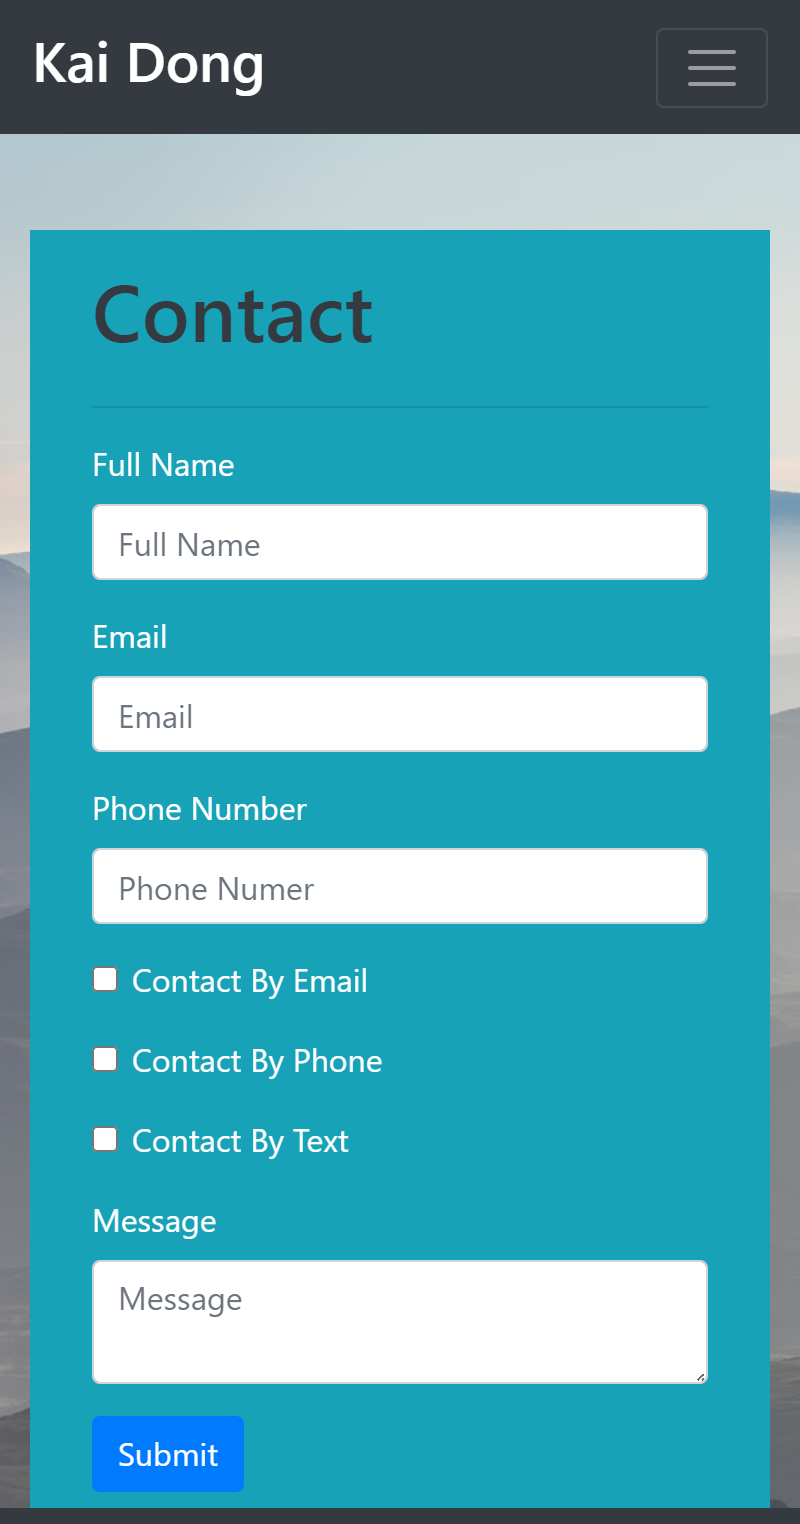
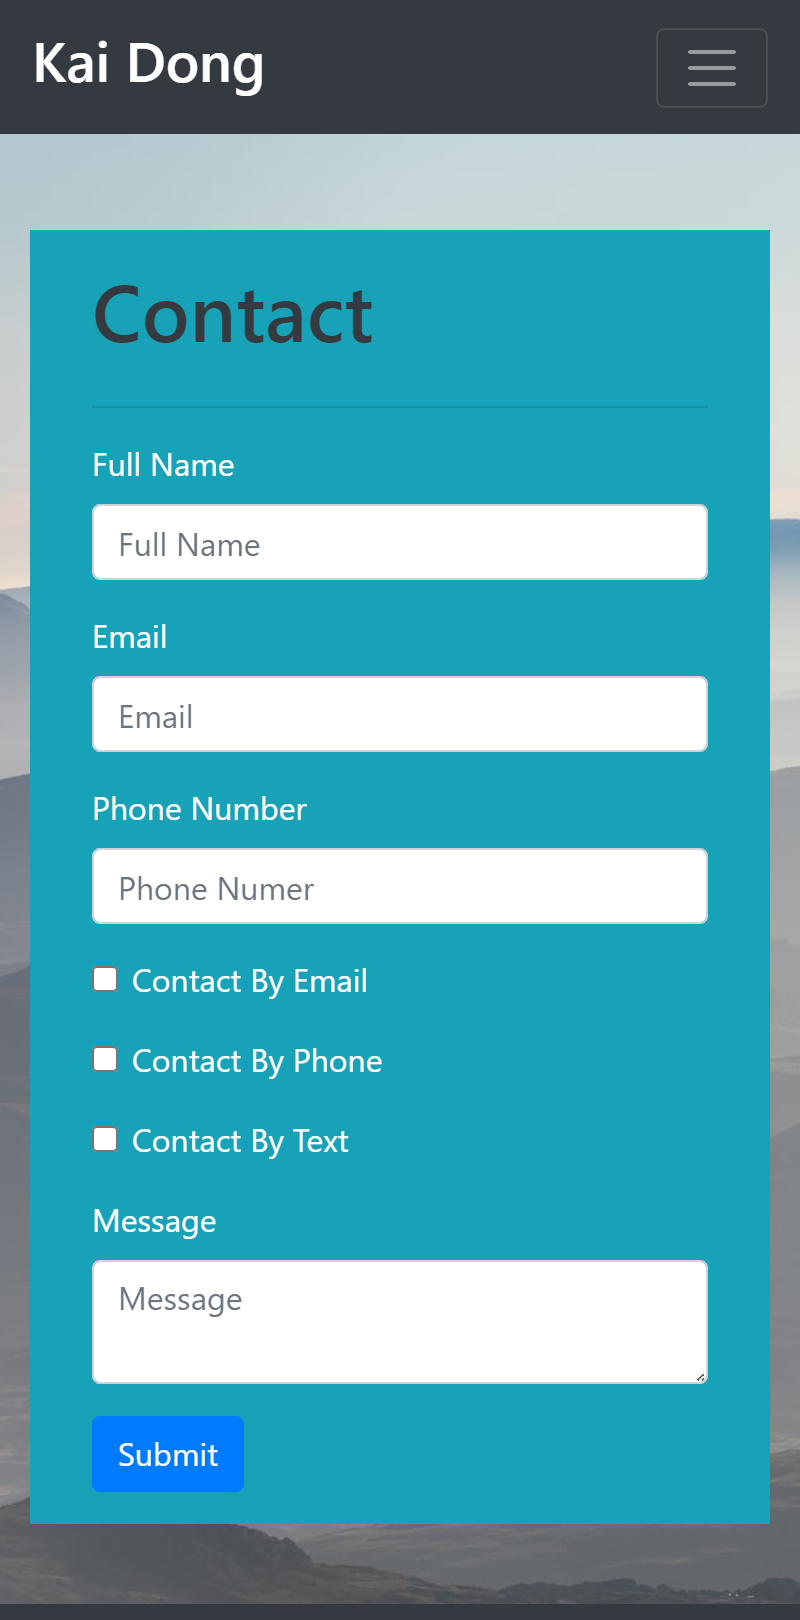
Added margin bottom to index, updated screenshots

diff --git a/index.html b/index.html
@@ -43,7 +43,7 @@
             <div class="col-md-8 col-lg-8">
 
                 <!-- Sub container and column defined for fitment and style -->
-                <div class="container mt-5 p-3 bg-info text-white">
+                <div class="container mt-5 mb-5 p-3 bg-info text-white">
                     <div class="col-md-12 col-lg-12">
 
                         <!-- About Me -->
